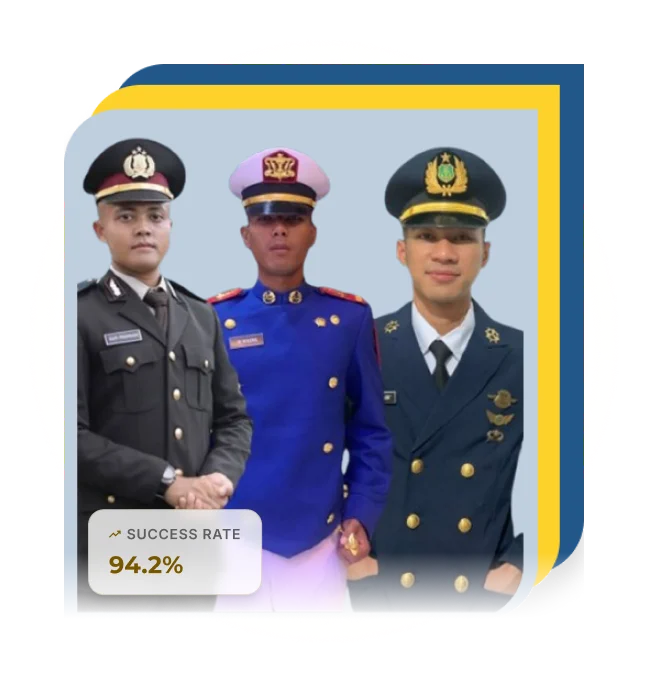
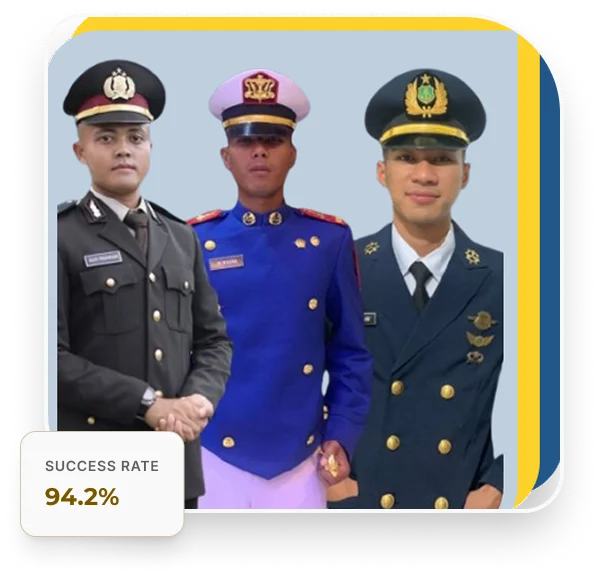
Remove hero success rate badge

diff --git a/src/sections/Hero.jsx b/src/sections/Hero.jsx
@@ -47,7 +47,7 @@ export default function Hero() {
             <p className="text-secondary font-label-md text-label-md">Bergabung dengan alumni sukses lainnya</p>
           </div>
         </div>
-<div className="relative order-1 lg:order-2 px-4 md:px-0 flex flex-col items-center justify-center">
+<div className="relative order-1 lg:order-2 px-4 md:px-0 flex items-center justify-center">
               <div className="absolute w-full h-full rounded-full blur-3xl pointer-events-none -z-0 opacity-70" style={{ background: 'radial-gradient(circle, rgba(247, 189, 72, 0.18) 0%, rgba(247, 189, 72, 0.05) 50%, transparent 75%)' }} />
               <div className="relative z-10 w-full flex justify-center items-end">
                 <img
@@ -56,14 +56,6 @@ export default function Hero() {
                   src="/assets/02-hero/hero-main.webp"
                   style={{ maskImage: 'linear-gradient(to bottom, black 88%, transparent 100%)', WebkitMaskImage: 'linear-gradient(to bottom, black 88%, transparent 100%)' }}
                 />
-              </div>
-              <div className="relative z-10 w-full max-w-md lg:max-w-lg flex justify-start mt-4 md:mt-6 px-2">
-                <div className="backdrop-blur-md bg-white/90 border border-primary/20 px-5 py-3.5 rounded-2xl shadow-lg">
-                  <p className="text-secondary text-xs md:text-label-md font-label-md uppercase tracking-wider mb-1 flex items-center gap-1.5">
-                    <span className="material-symbols-outlined text-primary text-sm" style={{ fontVariationSettings: '"FILL" 1' }}>trending_up</span> Success Rate
-                  </p>
-                  <p className="text-primary font-headline-md text-xl md:text-2xl font-bold">94.2%</p>
-                </div>
               </div>
             </div>
           </div>
